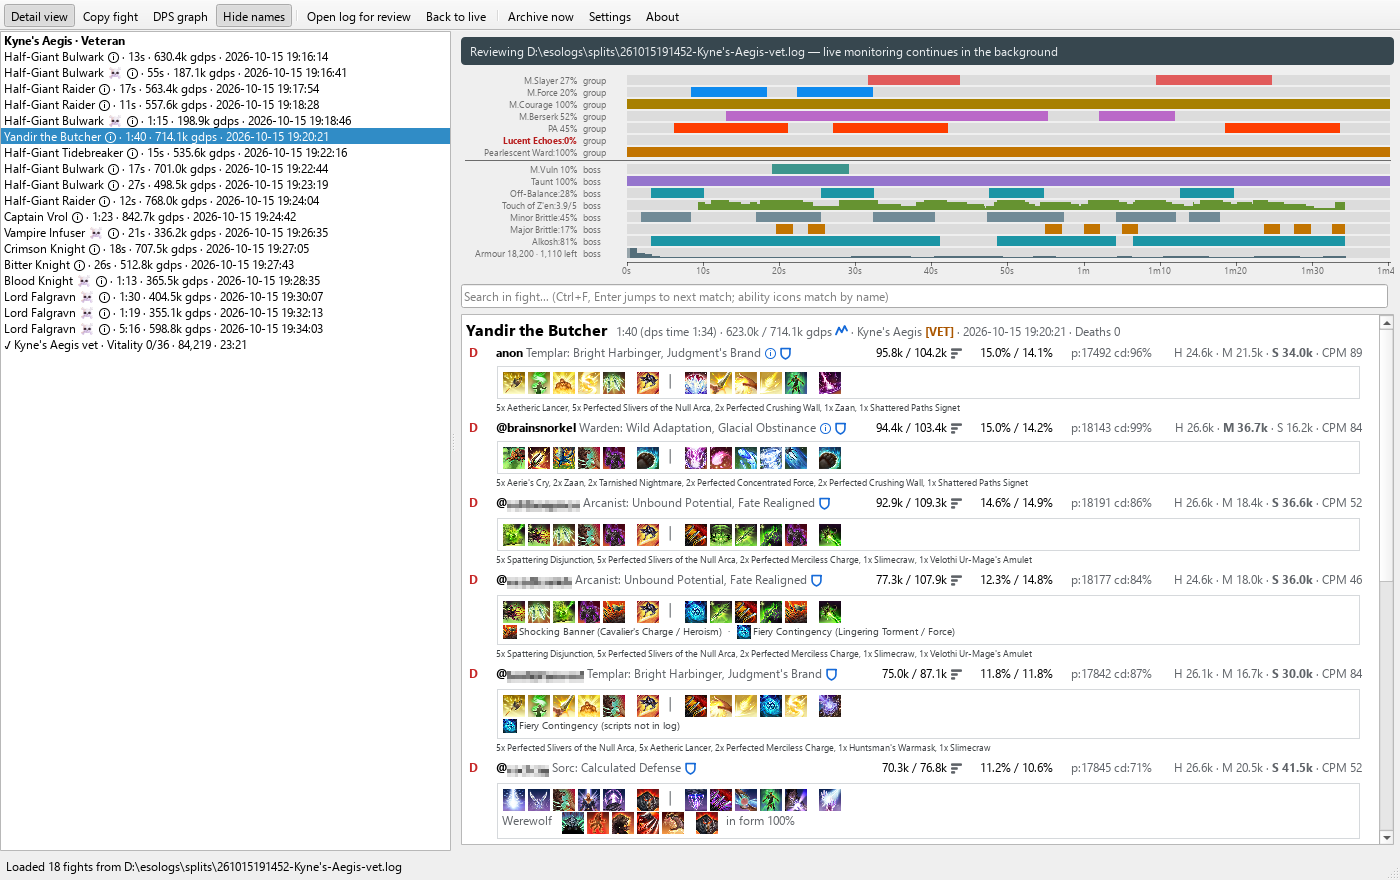
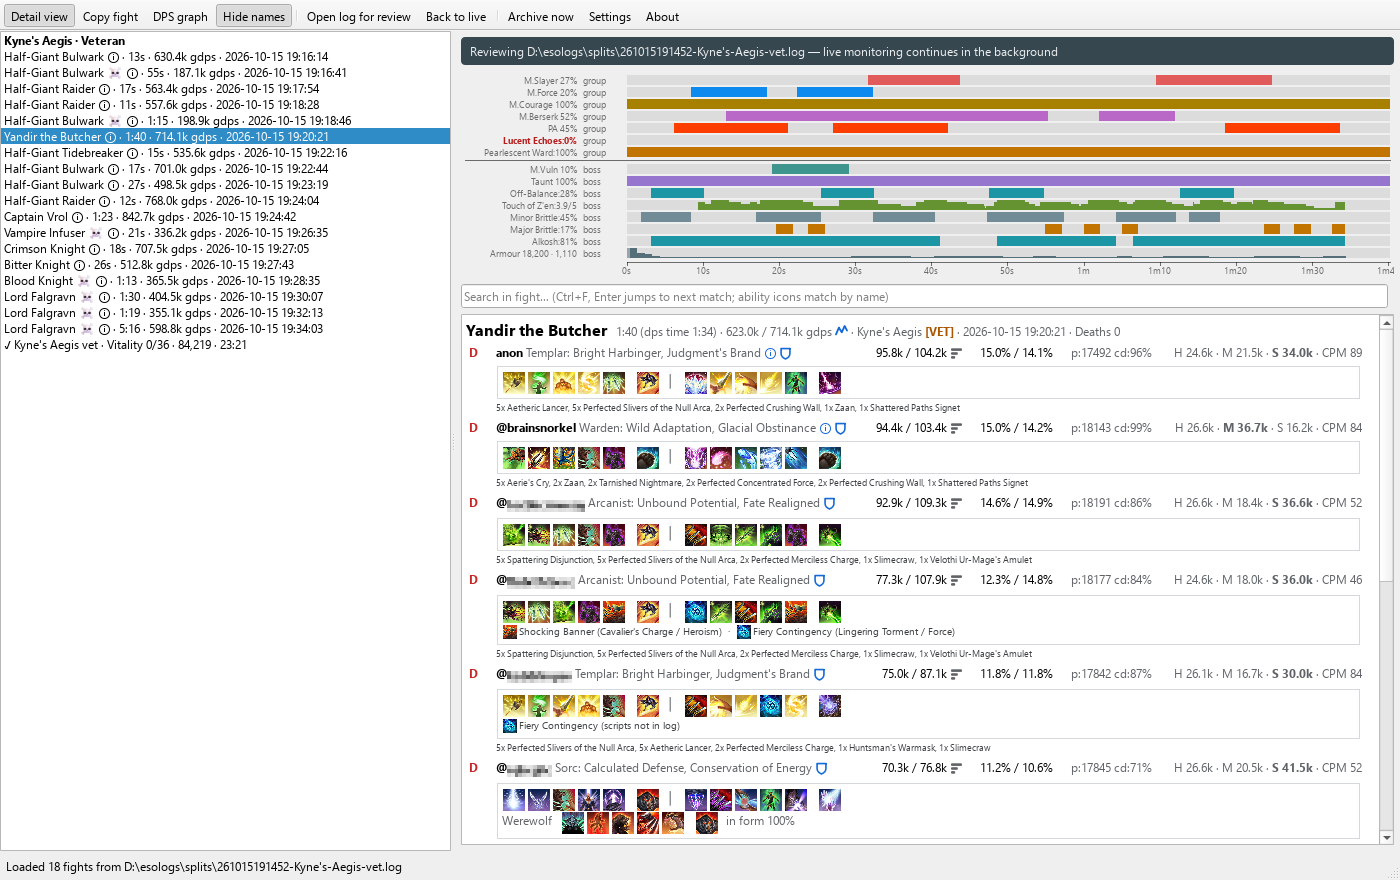
fix: answer the review of PR #139
- _note_mastery tests the id against the cached mastery table before
  looking up the player, so the commonest resource lines cost a dict
  lookup; the energize check uses resources.ENERGIZE
- tests: a Warden sourcing Conservation of Energy's gain names nothing;
  Nocturnal Inspiration and Hold the Line's Ultimate name their masteries
- SIGNATURE_EFFECTS says an entry may be a resource gain id
- the Armour row's hover names the label's second figure (the armour
  left, averaged), and armour_row's docstring gives the new label
- main-window.png and review-mode.png retaken (same log and fight): the
  label without "left", and a Sorcerer's Conservation of Energy

diff --git a/tests/unit/test_class_mastery.py b/tests/unit/test_class_mastery.py
@@ -150,6 +150,32 @@ class TestClassMastery(unittest.TestCase):
         self.assertEqual(_masteries(fights[0], 2), ['Share the Spoils'])
         self.assertEqual(_masteries(fights[0], 1), [])
 
+    def test_a_resource_gain_needs_the_masterys_class(self):
+        # A Warden sourcing Conservation of Energy's gain is not a Sorcerer;
+        # a Nightblade's Nocturnal Inspiration (263613) and a Templar's Hold
+        # the Line Ultimate (263621) name their own masteries
+        def energize(ts, ability_id, source):
+            return (f'{ts},COMBAT_EVENT,POWER_ENERGIZE,GENERIC,8,1,0,900,{ability_id},'
+                    f'{_player(source)},*')
+        base = [
+            '2000,UNIT_ADDED,3,PLAYER,F,3,0,F,6,4,"Templar","@templar",1003,50,3225,0,PLAYER_ALLY,T',
+            '2000,UNIT_ADDED,4,PLAYER,F,4,0,F,4,4,"Warden","@warden",1004,50,3225,0,PLAYER_ALLY,T',
+        ]
+        fight = _fight(10000, [
+            energize(12000, 263877, 4),
+            energize(12000, 263613, 2),
+            energize(12000, 263621, 3),
+        ], HEMORRHAGE)
+        fight[1:1] = [
+            f'10001,PLAYER_INFO,3,[{HEMORRHAGE}],[1],[],[{ABILITY}],[{ABILITY}]',
+            f'10001,PLAYER_INFO,4,[{HEMORRHAGE}],[1],[],[{ABILITY}],[{ABILITY}]',
+            _hit(11000, 3, 5000, 70), _hit(11000, 4, 5000, 70),
+        ]
+        _analyzer, fights = _run(base + fight)
+        self.assertEqual(_masteries(fights[0], 4), [])
+        self.assertEqual(_masteries(fights[0], 2), ['Nocturnal Inspiration'])
+        self.assertEqual(_masteries(fights[0], 3), ['Devout Guardian'])
+
     def test_devout_guardian_from_its_hold_the_line_shield(self):
         # 263619, Hold the Line: the shield a Templar gains on themselves.
         # A Warden sourcing the id is not a Templar, and another player's

diff --git a/src/esolog_tail.py b/src/esolog_tail.py
@@ -135,7 +135,8 @@ DAMAGE_RESULTS = frozenset(
 
 # Import our ESO analysis modules
 from damage_stats import FightDamage, dps as dps_over
-from eso_sets import ESOSubclassAnalyzer, lines_from_passives, mastery_of_effect, skill_lines_of
+from eso_sets import (ESOSubclassAnalyzer, lines_from_passives, mastery_effect_table, mastery_of_effect,
+                      skill_lines_of)
 
 # Set types that typically only have 1-2 piece bonuses (no 5pc bonus)
 NO_FIVE_PIECE_SET_TYPES = {
@@ -2021,7 +2022,10 @@ class ESOLogAnalyzer(ListenerMixin):
         its source, when that is a player of the mastery's class
         (eso_sets.mastery_of_effect). Kept on the player and in their
         session for the rest of the session, a mastery not changing
-        between fights."""
+        between fights. Any other id returns at once: resource gains are
+        among the commonest lines."""
+        if str(ability_id) not in mastery_effect_table():
+            return
         holder = self.current_encounter.player_of(source_unit_id)
         if holder is None:
             return
@@ -2158,7 +2162,7 @@ class ESOLogAnalyzer(ListenerMixin):
 
         # A mastery that gives resources is logged only as the gain, the
         # source its holder (Conservation of Energy, Share the Spoils)
-        if len(entry.fields) > 7 and entry.fields[0] == "POWER_ENERGIZE":
+        if len(entry.fields) > 7 and entry.fields[0] == resources.ENERGIZE:
             self._note_mastery(entry.fields[7], entry.fields[6])
 
         # Track damage events for DPS calculation (only friendly damage)

diff --git a/src/pen_crit.py b/src/pen_crit.py
@@ -1162,9 +1162,9 @@ _ZONE_EXPLAIN = {
     "solo_trash": "A solo dungeon's trash has 18,200 armour, like any instance's.",
 }
 _ROW_EXPLAIN = ("The bar is the armour left after the group's armour debuffs each second "
-                "while the group was hitting the target, averaged over time; the click "
-                "summary and the build window's effective figures weigh each second by the "
-                "damage dealt instead.")
+                "while the group was hitting the target, and the label's second figure is "
+                "that armour left, averaged over time; the click summary and the build "
+                "window's effective figures weigh each second by the damage dealt instead.")
 _PACK_EXPLAIN = ("The paler stretches read each second on whatever the group hit hardest "
                  "then, the hover naming it.")
 
@@ -1173,7 +1173,7 @@ def armour_row(group: dict | None, options: dict | None = None) -> dict | None:
     """The buff timeline's Armour row for a fight entry's group part
     (fight_fields' 'armour'): the estimate (the fight's target armour, or
     the Settings' cap override when it is a number), a label 'Armour 18,200
-    · 9,400 left' with the time-averaged remainder, the scope word
+    · 9,400' with the time-averaged remainder, the scope word
     ('boss' or 'mobs'), intervals shaped like a stacking rule's with
     'stacks' the armour left that second plus 'debuff_pen' and 'debuffs'
     for the hover, 'stacks_max' the estimate, 'game_cap' 25,000 when the

diff --git a/scripts/generate_class_passives.py b/scripts/generate_class_passives.py
@@ -91,7 +91,9 @@ CLASSES = ("Dragonknight", "Sorcerer", "Nightblade", "Warden", "Necromancer",
            "Templar", "Arcanist")
 SECONDS_BETWEEN_REQUESTS = 5
 # Effects a mastery fires under its buff's name, not its own (see the module
-# docstring for how each was pinned to its mastery)
+# docstring for how each was pinned to its mastery). An id may be a gained
+# effect or a resource gain (POWER_ENERGIZE), whichever the log writes: the
+# engine reads a mastery from both
 SIGNATURE_EFFECTS = {
     "263306": "Lead from the Front",   # Major Berserk, Dragonknights only
     "263307": "Lead from the Front",   # Major Protection, with it

diff --git a/tests/unit/test_pen_crit.py b/tests/unit/test_pen_crit.py
@@ -638,6 +638,8 @@ class TestArmourRow(unittest.TestCase):
         self.assertEqual(row["label"], "Armour 27,300 · 15,226")
         self.assertIn("final boss 36,400", row["explain"])
         self.assertIn("averaged over time", row["explain"])
+        # The label's bare second figure is named in its hover (#137)
+        self.assertIn("the label's second figure is that armour left", row["explain"])
         # A series from before the window (issue #64) covers the whole fight
         self.assertEqual((row["window"], row["window_ms"], row["drawn_ms"], row["fight_ms"],
                           row["weighted_left"]),

diff --git a/docs/design.md b/docs/design.md
@@ -11,7 +11,7 @@ link under each note is where it lives.
 
 ### ESOLogAnalyzer._handle_effect_changed
 
-*[src/esolog_tail.py:2455](../src/esolog_tail.py#L2455)*
+*[src/esolog_tail.py:2459](../src/esolog_tail.py#L2459)*
 
 A buff or debuff coming, going or refreshing: the tracked effects
 (every item of the uptime line), the timeline strip's built-in rows, and
@@ -40,7 +40,7 @@ The game ends and restarts combat in the middle of a fight, most often when the 
 
 ### ESOLogAnalyzer._continues_last_fight
 
-*[src/esolog_tail.py:1785](../src/esolog_tail.py#L1785)*
+*[src/esolog_tail.py:1786](../src/esolog_tail.py#L1786)*
 
 Whether a BEGIN_COMBAT at *timestamp_ms* carries on the fight that
 just ended instead of starting one (see COMBAT_RESUME_MS): it follows
@@ -49,7 +49,7 @@ fight ended is still alive.
 
 ### ESOLogAnalyzer._resume_last_fight
 
-*[src/esolog_tail.py:1800](../src/esolog_tail.py#L1800)*
+*[src/esolog_tail.py:1801](../src/esolog_tail.py#L1801)*
 
 Reopen the encounter END_COMBAT closed. Its damage, deaths and
 players are kept, and the entry frontends already have is brought up
@@ -65,7 +65,7 @@ The blow that kills the last player standing ends combat, and that player's deat
 
 ### LogFileMonitor._load_latest_session
 
-*[src/esolog_tail.py:4143](../src/esolog_tail.py#L4143)*
+*[src/esolog_tail.py:4147](../src/esolog_tail.py#L4147)*
 
 Replay the log's most recent session up to the attach point.
 
@@ -108,7 +108,7 @@ backward BEGIN_LOG search is capped rather than unbounded.
 
 ### infer_player_role
 
-*[src/esolog_tail.py:351](../src/esolog_tail.py#L351)*
+*[src/esolog_tail.py:352](../src/esolog_tail.py#L352)*
 
 Infer player role (T/H/D) from resources, weapon and healing heuristics.
 
@@ -1635,7 +1635,7 @@ start to its death as forget_unit reported it, or the fight's end.
 
 ### CombatEncounter.fight_units
 
-*[src/esolog_tail.py:877](../src/esolog_tail.py#L877)*
+*[src/esolog_tail.py:878](../src/esolog_tail.py#L878)*
 
 What effect_rules measures a fight's rules on, unit id -> (kind,
 since_ms, gone_ms): the players ('self' or 'group'), and the
@@ -1682,7 +1682,7 @@ The game puts one Taunt debuff on a taunted enemy whatever skill taunted, and wr
 
 ### mark_taunt_slots
 
-*[src/esolog_tail.py:401](../src/esolog_tail.py#L401)*
+*[src/esolog_tail.py:402](../src/esolog_tail.py#L402)*
 
 Put 'taunt': True on each bar slot the player taunted with: the slot
 whose ability id a taunt names, or, for a taunt logged under an id no
@@ -1921,7 +1921,7 @@ panel shows four or fewer.
 
 ### CombatEncounter.track_pet_ownership
 
-*[src/esolog_tail.py:617](../src/esolog_tail.py#L617)*
+*[src/esolog_tail.py:618](../src/esolog_tail.py#L618)*
 
 Record *pet_unit_id* as a pet of the player who owns it, so its
 damage and healing count as that player's; forget it when the owner
@@ -1944,7 +1944,7 @@ code guessed pets from EFFECT_CHANGED targets and never found one.
 
 ### CombatEncounter.add_damage_to_player
 
-*[src/esolog_tail.py:743](../src/esolog_tail.py#L743)*
+*[src/esolog_tail.py:744](../src/esolog_tail.py#L744)*
 
 Credit damage dealt by *unit_id* to the player it belongs to:
 the player themself, or the owner of a pet (see
@@ -1970,7 +1970,7 @@ its owner's as well.
 
 ### LogSplitter
 
-*[src/esolog_tail.py:3345](../src/esolog_tail.py#L3345)*
+*[src/esolog_tail.py:3349](../src/esolog_tail.py#L3349)*
 
 Handles automatic splitting of encounter logs into individual encounter files.
 
